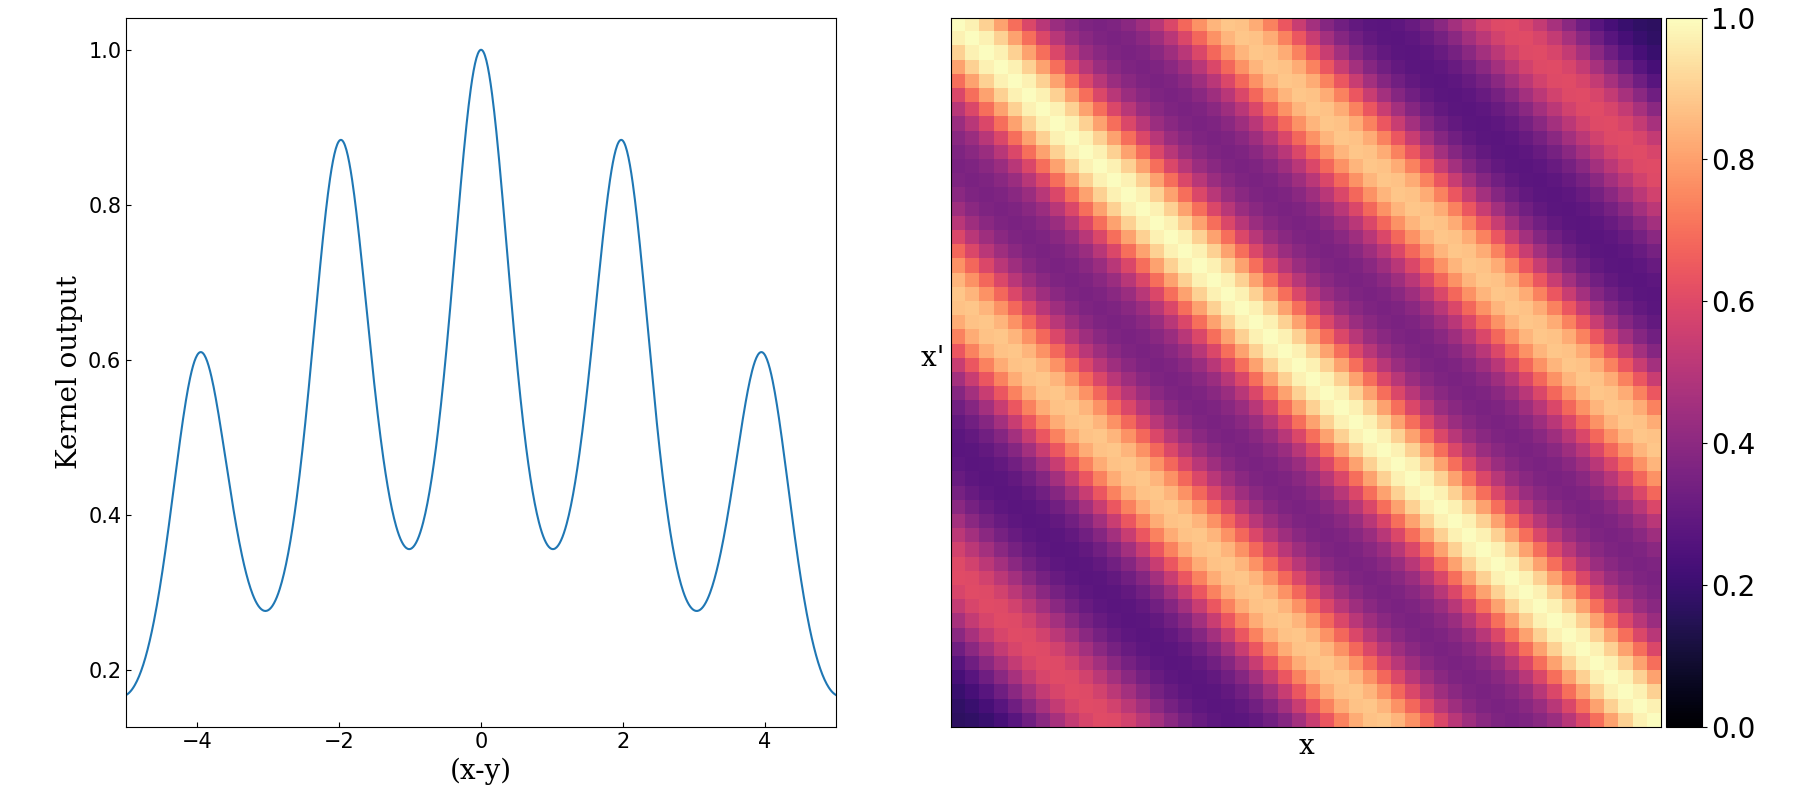
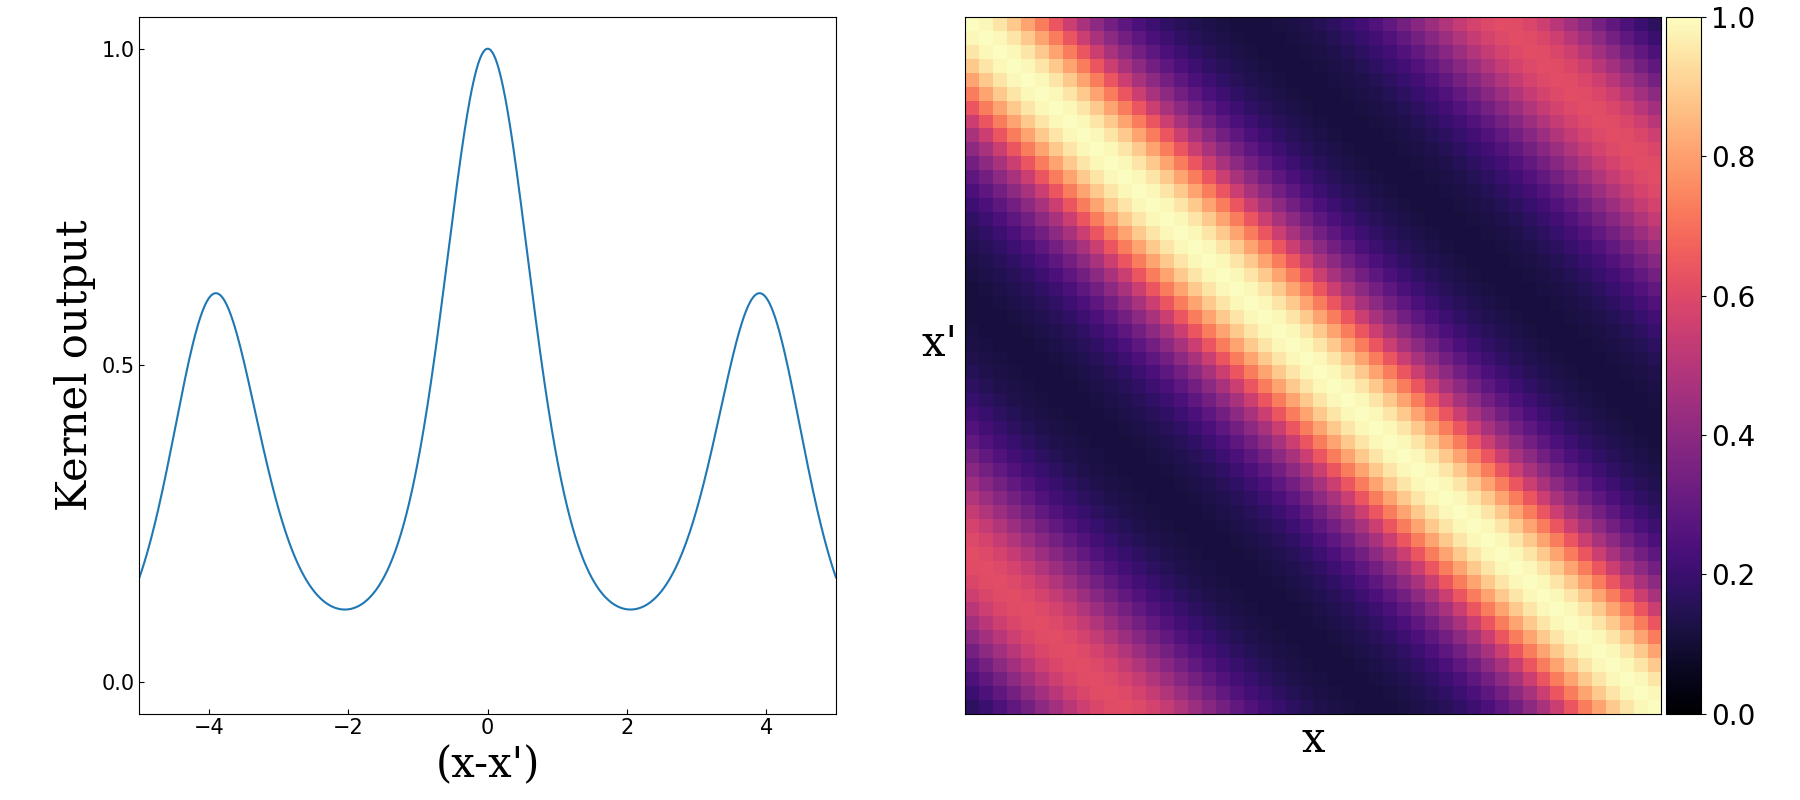
imputing diagram

diff --git a/src/visualisation.py b/src/visualisation.py
@@ -1,10 +1,10 @@
-from src.kernelFuncts import RadialBasisFunction, KernelFunction, RationalQuadraticFunction, PeriodicFunction, CompositeKernel, LinearFunction
+from kernelFuncts import RadialBasisFunction, KernelFunction, RationalQuadraticFunction, PeriodicFunction, CompositeKernel, LinearFunction
 import matplotlib.pyplot as plt
 from typing import Union
 import numpy as np
 from mpl_toolkits.axes_grid1 import make_axes_locatable
-from src.GaussianProcess import GaussianProcess
-from src.data import generateLinearData, generateSinData
+from GaussianProcess import GaussianProcess
+from data import generateLinearData, generateSinData
 
 alphabet = "abcdefghi"
 
@@ -19,15 +19,15 @@ def visualiseKernel(kernel:KernelFunction):
     # first axis is graph of values
     axes[0].plot(np.linspace(-5,5,1000), values)
     axes[0].set_box_aspect(1)
-    axes[0].set_xlabel("(x-y)", fontsize = 20, fontfamily = "serif")
-    axes[0].set_ylabel("Kernel output", fontsize = 20, fontfamily = "serif")
+    axes[0].set_xlabel("(x-x')", fontsize = 30, fontfamily = "serif")
+    axes[0].set_ylabel("Kernel output", fontsize = 30, fontfamily = "serif")
     
     # second axis is visual pattern
     im = axes[1].imshow(matrixOfValues, cmap = "magma", vmin = 0, vmax = 1)
     axes[1].set_xticks([])
     axes[1].set_yticks([])
-    axes[1].set_xlabel("x", fontsize = 20, fontfamily = "serif")
-    axes[1].set_ylabel("x'   ", fontsize = 20, fontfamily = "serif", rotation=0)
+    axes[1].set_xlabel("x", fontsize = 30, fontfamily = "serif")
+    axes[1].set_ylabel("x'   ", fontsize = 30, fontfamily = "serif", rotation=0)
     divider = make_axes_locatable(axes[1])
     cax = divider.append_axes('right', size='5%', pad=0.05)
     cbar = fig.colorbar(im, cax=cax, orientation='vertical')
@@ -35,9 +35,11 @@ def visualiseKernel(kernel:KernelFunction):
     for index, axis in enumerate(axes):
         fixTickParams(axis, index)
     axes[0].set_xlim(np.min(x),np.max(x))
+    axes[0].set_ylim(-0.05, 1.05)
+    axes[0].set_yticks([0,0.5,1])
 
     fig.tight_layout()
-    fig.savefig(f"figures/{kernel.kernType.replace(" ", "")}.png")
+    fig.savefig(f"figures/{kernel.kernType.replace(' ', '')}.png")
     # plt.show()
 
 
@@ -272,30 +274,30 @@ def fixTickParams(axis, index):
 
 if __name__ == "__main__":
     rbf = RadialBasisFunction(lengthscale=1)
-    # rq = RationalQuadraticFunction(alpha=1)
-    # p = PeriodicFunction()
-    # lin = LinearFunction(sigmaV=1/36)
-    # comp = CompositeKernel(p, RadialBasisFunction(lengthscale=4), "x")
-    # visualiseKernel(rbf)
-    # visualiseKernel(rq)
-    # visualiseKernel(p)
-    # visualiseKernel(lin)
-    # visualiseKernel(comp)
+    rq = RationalQuadraticFunction(alpha=1)
+    p = PeriodicFunction(lengthscale=0.7, period=4)
+    lin = LinearFunction(sigmaV=1/36)
+    comp = CompositeKernel(p, RadialBasisFunction(lengthscale=4), "x")
+    visualiseKernel(rbf)
+    visualiseKernel(rq)
+    visualiseKernel(p)
+    visualiseKernel(lin)
+    visualiseKernel(comp)
     # showAll()
     # testHypes()
     # showGPLengthscales()
-    gp = GaussianProcess(RadialBasisFunction(lengthscale=1, sigma=1), noise_variance=0.01)
-    priorDistSample(gp, nsamples=5)
-    gps = [
-        GaussianProcess(RadialBasisFunction(), noise_variance=0.01), GaussianProcess(RadialBasisFunction(), noise_variance=0.1), GaussianProcess(RadialBasisFunction(), noise_variance=1)
-    ]
-    GPComps(gps, "noiseVariance", nsamples=4)
-    gps = [
-        GaussianProcess(RadialBasisFunction(sigma=0.5)), GaussianProcess(RadialBasisFunction(sigma=1)), GaussianProcess(RadialBasisFunction(sigma=1.4))
-    ]
-    GPComps(gps, "sigmas", nsamples=4)
-    gps = [
-        GaussianProcess(RadialBasisFunction(lengthscale=0.1)), GaussianProcess(RadialBasisFunction(lengthscale=0.5)), GaussianProcess(RadialBasisFunction(lengthscale=2))
-    ]
-    GPComps(gps, "lengthscales", nsamples=3)
-    visualiseDistribution(GaussianProcess(rbf))
+    # gp = GaussianProcess(RadialBasisFunction(lengthscale=1, sigma=1), noise_variance=0.01)
+    # priorDistSample(gp, nsamples=5)
+    # gps = [
+    #     GaussianProcess(RadialBasisFunction(), noise_variance=0.01), GaussianProcess(RadialBasisFunction(), noise_variance=0.1), GaussianProcess(RadialBasisFunction(), noise_variance=1)
+    # ]
+    # GPComps(gps, "noiseVariance", nsamples=4)
+    # gps = [
+    #     GaussianProcess(RadialBasisFunction(sigma=0.5)), GaussianProcess(RadialBasisFunction(sigma=1)), GaussianProcess(RadialBasisFunction(sigma=1.4))
+    # ]
+    # GPComps(gps, "sigmas", nsamples=4)
+    # gps = [
+    #     GaussianProcess(RadialBasisFunction(lengthscale=0.1)), GaussianProcess(RadialBasisFunction(lengthscale=0.5)), GaussianProcess(RadialBasisFunction(lengthscale=2))
+    # ]
+    # GPComps(gps, "lengthscales", nsamples=3)
+    # visualiseDistribution(GaussianProcess(rbf))

diff --git a/src/simpleImputing.py b/src/simpleImputing.py
@@ -1,0 +1,62 @@
+import numpy as np
+import matplotlib.pyplot as plt
+from copy import copy
+from visualisation import pdf
+def generate_data(n: int, distribution: str = "normal"):
+    y = np.random.normal(0, 1, n)
+    return y
+
+def compare_imps():
+    y = generate_data(10000)
+
+    # create mask
+    random_mask = np.full(10000, True)
+    random_mask[:3000] = False
+    np.random.shuffle(random_mask)
+
+    y_masked = y[random_mask]
+    mean_masked = np.mean(y_masked)
+
+    # impute data
+    y_imputed = copy(y)
+    for i, _ in enumerate(y_imputed):
+        if not random_mask[i]:
+            y_imputed[i] = mean_masked
+
+    print(np.sum(y-y_imputed))
+
+    # now plot
+    var = np.var(y)
+    var_masked = np.var(y_masked)
+    var_imputed = np.var(y_imputed)
+
+    print(var, var_masked, var_imputed)
+
+    fig, axes = plt.subplots(ncols=3, figsize = (18,4.5), sharey = True)
+
+    x = np.linspace(-4,4,200)
+    dist = pdf(x, np.mean(y), var)
+    dist_masked = pdf(x, mean_masked, var_masked)
+    dist_imputed = pdf(x, np.mean(y_imputed), var_imputed)
+
+    axes[0].hist(y,15, density=True, rwidth = 0.8, range = [-4, 4])
+    axes[1].hist(y_masked, 15, density=True, rwidth = 0.8, range = [-4, 4])
+    axes[2].hist(y_imputed, 15, density=True, rwidth = 0.8, range = [-4, 4])
+
+    axes[0].plot(x, dist.flatten())
+    axes[1].plot(x, dist_masked.flatten())
+    axes[2].plot(x, dist_imputed.flatten())
+    axes[0].set_yticks([0, 0.5, 1])
+    axes[0].set_ylabel("Probability Density", fontsize = 16, fontfamily = "serif")
+    for axis in axes:
+        axis.set_xlabel("x", fontsize = 16, fontfamily = "serif")
+    axes[0].set_title('Full Sample', size = 20, fontfamily = "serif")
+    axes[1].set_title('70% of Sample', size = 20, fontfamily = "serif")
+    axes[2].set_title('Imputed Sample', size = 20, fontfamily = "serif")
+
+    fig.tight_layout()
+    fig.savefig("figures/imputeComp.png")
+
+
+if __name__ == "__main__":
+    compare_imps()

diff --git a/src/kernelFuncts.py b/src/kernelFuncts.py
@@ -73,7 +73,7 @@ class PeriodicFunction(KernelFunction):
         sigma (float): the variance of the kernel.
         lengthscale (float): the lengthscale of the kernel. 
     """
-    def __init__(self, sigma: float = 1.0, lengthscale: float = 1.0, period: float = 2):
+    def __init__(self, sigma: float = 1.0, lengthscale: float = 0.5, period: float = 2):
         self.kernType = "Periodic"
         self.sigma = sigma
         self.lengthscale = lengthscale

diff --git a/src/GaussianProcess.py b/src/GaussianProcess.py
@@ -1,6 +1,6 @@
 """This file is for the Gaussain process."""
-from src.kernelFuncts import KernelFunction, RadialBasisFunction
-from src.data import generateLinearData, generateSinData
+from kernelFuncts import KernelFunction, RadialBasisFunction
+from data import generateLinearData, generateSinData
 import numpy as np
 from typing import Union
 import matplotlib.pyplot as plt
